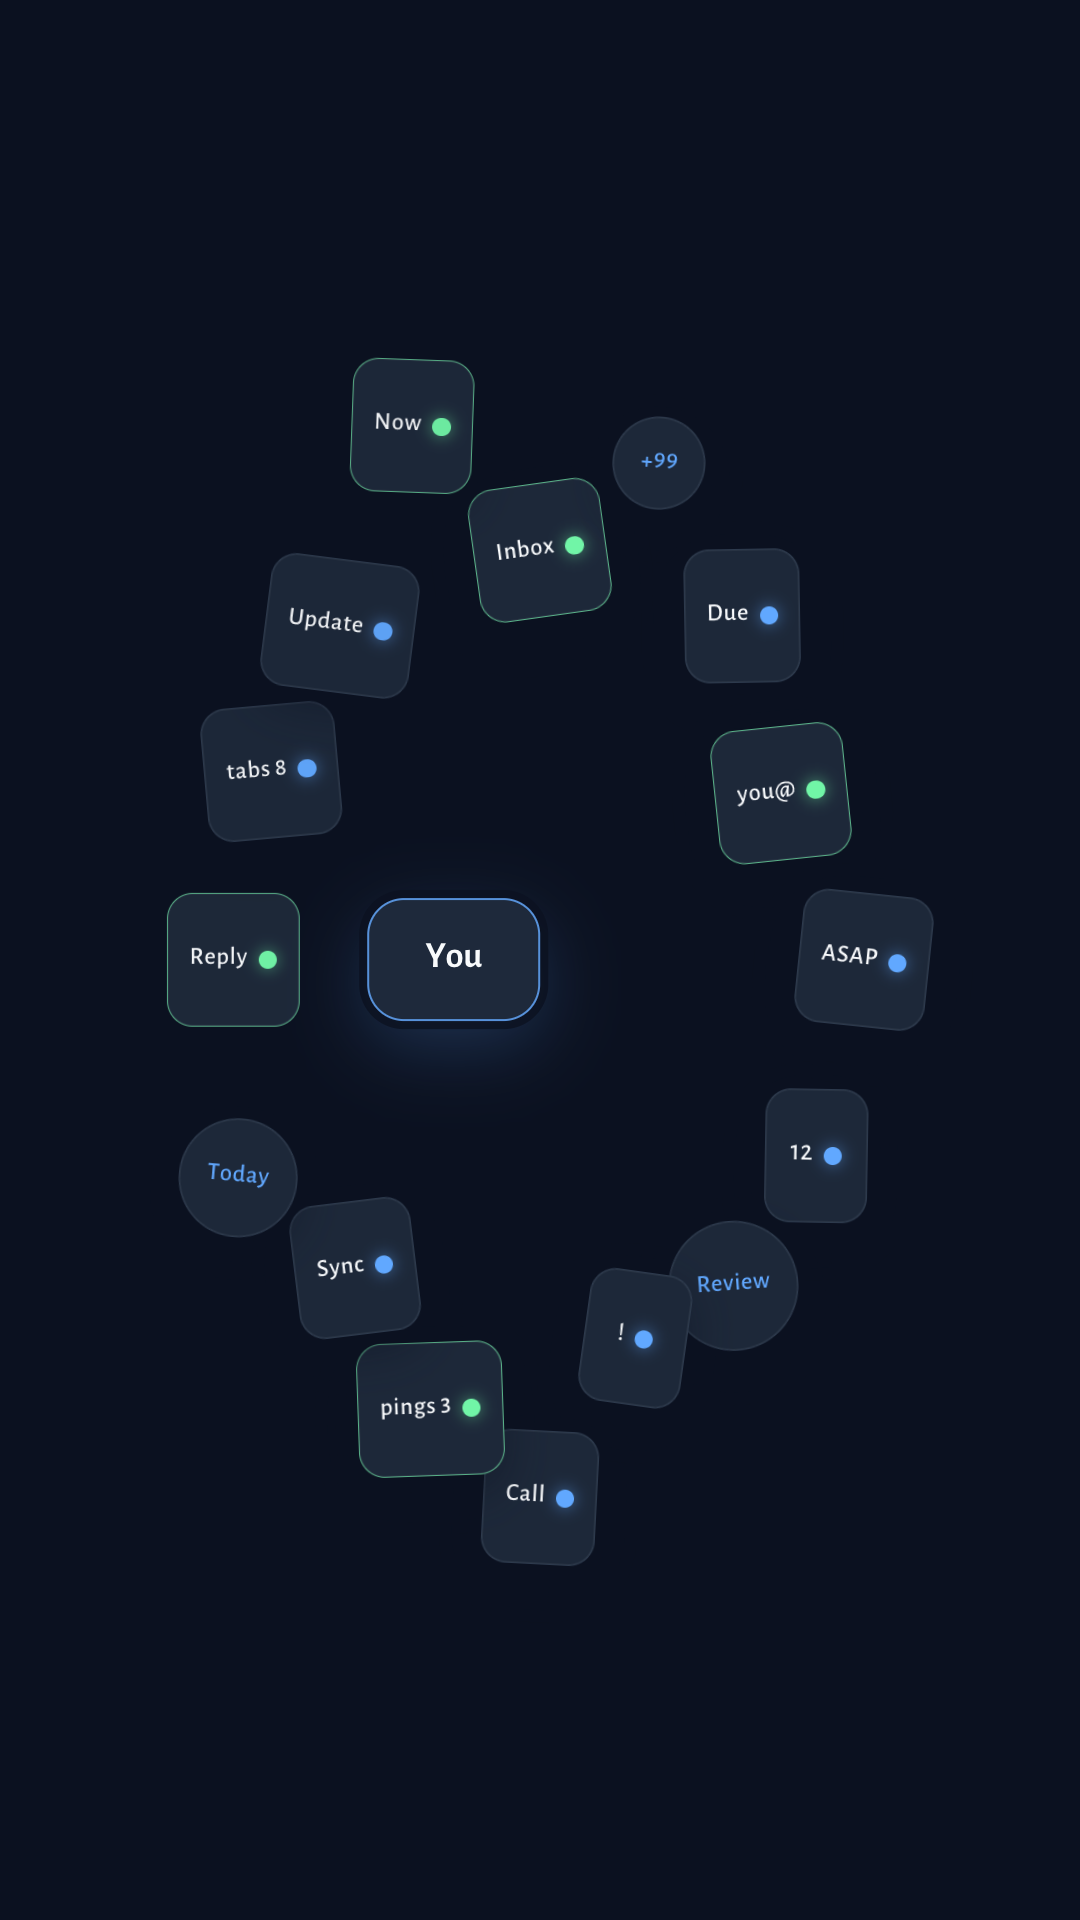
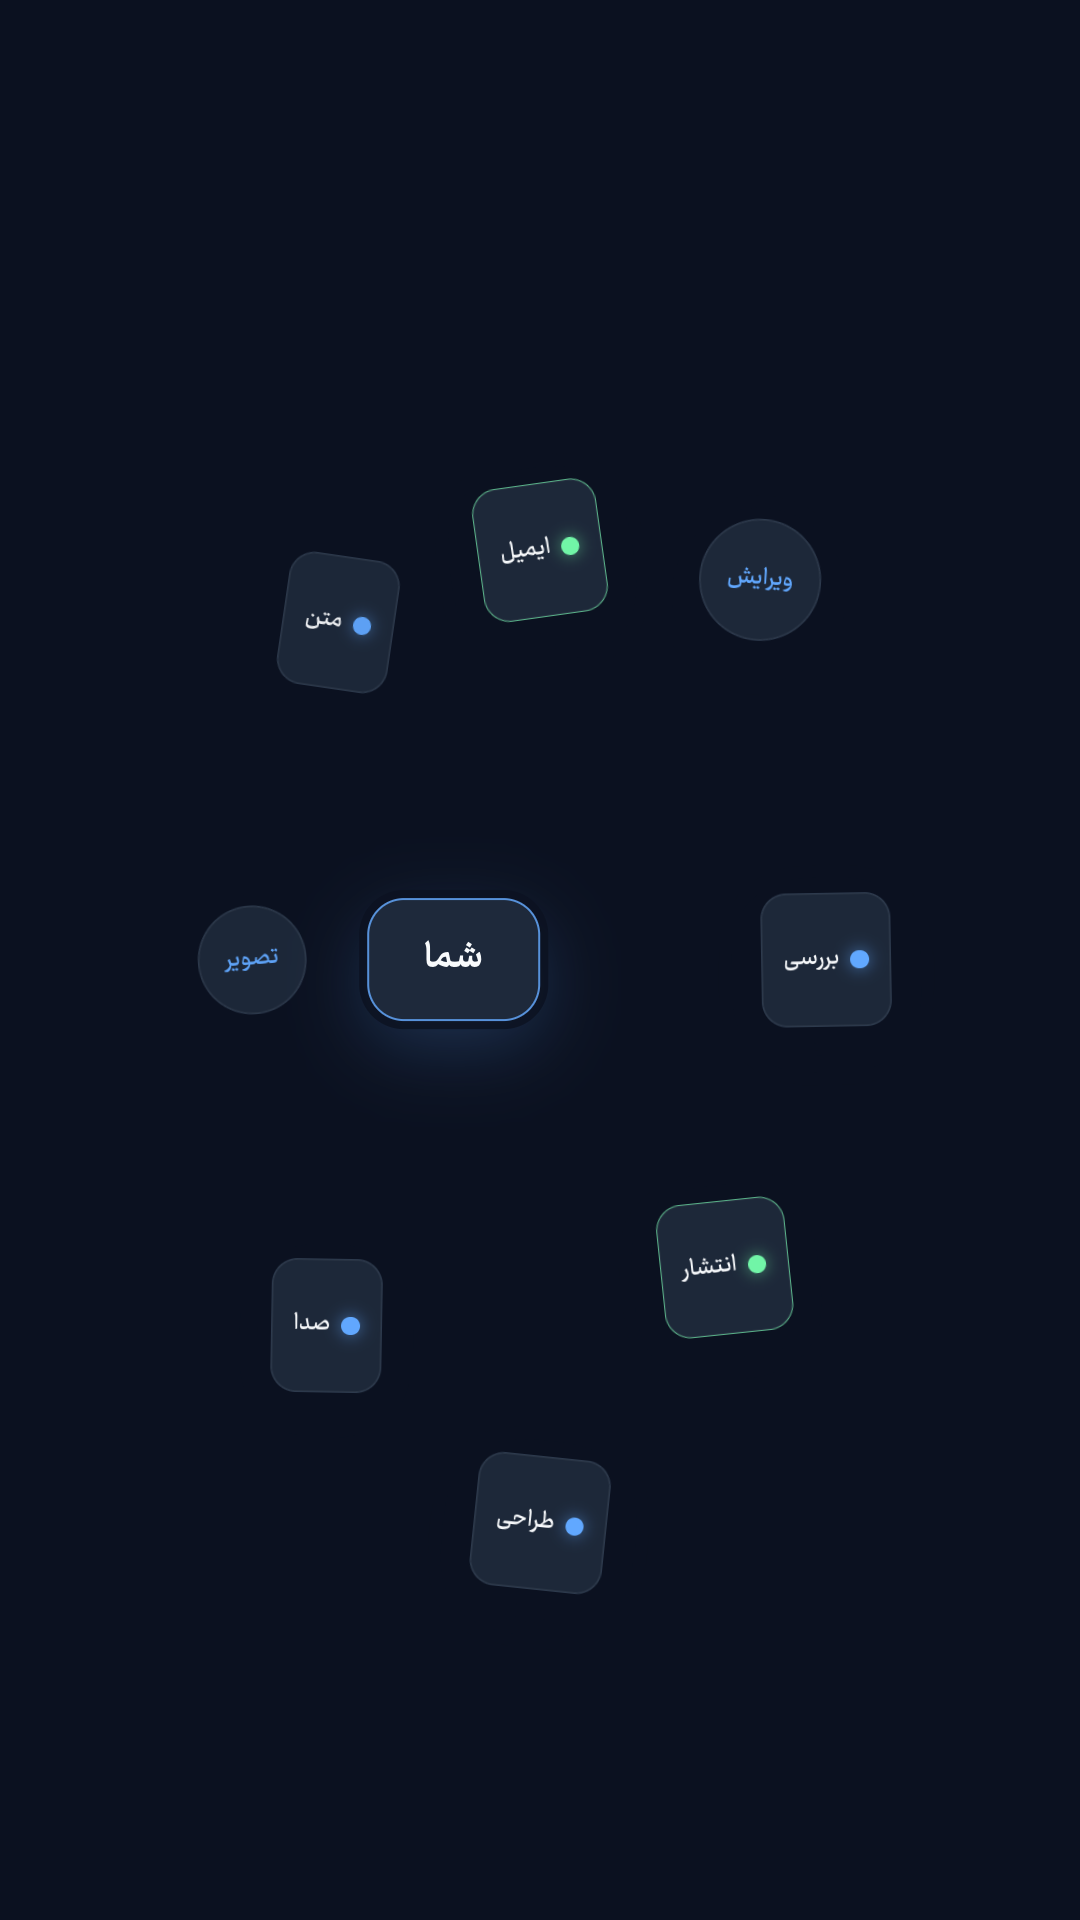
Validate native content before execution and prevent demo-copy leakage

diff --git a/web/public/creative-previews/gallery.html b/web/public/creative-previews/gallery.html
@@ -8,14 +8,14 @@ function draw(){gallery.replaceChildren();const query=document.querySelector('#s
 for(const item of shown){
 const card=document.createElement('article');
 if(item.poster&&/^\/creative-previews\/[a-z0-9-]+\.png$/.test(item.poster)){
-const image=document.createElement('img');image.src=item.poster;image.loading='lazy';image.alt='نمونهٔ اجرای '+item.name;card.append(image);}
+const image=document.createElement('img');image.src=item.poster;image.loading='lazy';image.alt='نمونهٔ اجرای '+item.name;const link=document.createElement('a');link.href=item.poster;link.target='_blank';link.rel='noopener';link.setAttribute('aria-label','نمایش تصویر کامل '+item.name);link.append(image);card.append(link);}
 const section=document.createElement('section'),title=document.createElement('h2');title.dir='ltr';title.textContent=item.name;section.append(title);
 const state=document.createElement('p');
 state.textContent=item.status==='browser-checked'?'بررسی مرورگر انجام شد · عمودی':item.status==='synthetic-frame-checked'?'اجرای افکت روی ورودی هندسی · رهگیری چهره و ویدیوی کامل آزمون نشده':item.status==='upstream-demo-checked'?'اجرای مستقیم نمونهٔ اصلی · اتصال محتوای کاربر و فارسی/عمودی هنوز تکمیل نشده':'نیازمند اصلاح؛ آمادهٔ انتخاب موتور نیست';
 section.append(state);
 if(item.use){const use=document.createElement('p');use.textContent=item.use;section.append(use);}
 const details=document.createElement('details'),summary=document.createElement('summary'),pre=document.createElement('pre');summary.textContent='ورودیها و اطلاعات فنی';
-pre.textContent=JSON.stringify({resource_id:item.id,status:item.status,fixture:item.fixture,tracking_verified:item.tracking_verified,parameters:item.parameters,source_sha256:item.source_sha256,findings:item.findings},null,2);
+pre.textContent=JSON.stringify({resource_id:item.id,status:item.status,fixture:item.fixture,tracking_verified:item.tracking_verified,production_template_ready:item.production_template_ready,source_revision:item.source_revision,backward_seek_verified:item.backward_seek_verified,parameters:item.parameters,source_sha256:item.source_sha256,findings:item.findings},null,2);
 details.append(summary,pre);section.append(details);card.append(section);gallery.append(card);
 }}
 document.querySelector('#search').addEventListener('input',draw);Promise.all(['index.json','claude-effects.json','shotcraft.json','lemo.json'].map(file=>fetch('./'+file,{cache:'no-store'}).then(r=>r.ok?r.json():{items:{}}).catch(()=>({items:{}})))).then(groups=>{items=groups.flatMap(data=>Object.values(data.items));draw()}).catch(()=>{status.textContent='گالری هنوز ساخته نشده یا قابل دسترسی نیست.'});

diff --git a/creative/native_motion.py b/creative/native_motion.py
@@ -46,7 +46,52 @@ def parameter_schema(name: str):
                 self.variables = json.loads(value)
     parser = Metadata()
     parser.feed((SOURCES / f"{name}.html").read_text())
-    return {v["id"]: v for v in parser.variables}
+    result = {v["id"]: v for v in parser.variables}
+    if name == "overwhelm-surround":
+        result["task_labels"] = {"id":"task_labels", "type":"string", "role":"content", "label":"Task labels",
+                                 "description":"Comma-separated task labels, exactly count entries. Explicit content replaces the original fixed English demo labels."}
+    return result
+
+
+def content_problems(spec, duration=None):
+    """Production-only semantic guards. Demo materialization may use defaults."""
+    if spec.resource_id in LEGACY_INPUTS:
+        return []
+    name = spec.resource_id.split(":")[1]
+    schema, p = parameter_schema(name), spec.parameters
+    missing = {k for k,v in schema.items() if v.get("role") == "content"} - p.keys()
+    if missing:
+        return ["Explicit component content required: " + ", ".join(sorted(missing))]
+    problems = []
+    def parts(key):
+        return [v.strip() for v in str(p.get(key, "")).split(",")]
+    paired_counts = {"beat-timeline":("labels","beatCount"), "multiplayer-cursors":("labels","cursorCount"),
+                     "overwhelm-surround":("task_labels","count")}
+    if name in paired_counts:
+        labels, count = paired_counts[name]
+        expected = p[count]
+        if float(expected) != int(expected) or len(parts(labels)) != expected or not all(parts(labels)):
+            problems.append(f"{labels} must contain exactly {count} nonempty labels; demo fallbacks are forbidden")
+    if name == "tracing-beam" and (len(parts("labels")) != 3 or not all(parts("labels"))):
+        problems.append("tracing-beam requires three explicit nonempty labels")
+    if name == "chart-story":
+        try:
+            values = [float(v) for v in parts("data")]
+            if not 2 <= len(values) <= 12 or not all(math.isfinite(v) and abs(v) <= 1_000_000 for v in values):
+                raise ValueError()
+            if len(parts("labels")) != len(values) or not all(parts("labels")):
+                problems.append("Chart labels must match all explicit data values")
+        except ValueError:
+            problems.append("Chart data requires 2–12 finite bounded comma-separated numbers")
+    if name == "per-word-rise" and p.get("split") == "char" and re.search(r"[\u0600-\u06ff]", str(p.get("text", ""))):
+        problems.append("Persian text requires word splitting to preserve joined glyphs")
+    if name == "cursor-text-select" and p["phrase"] not in p["text"]:
+        problems.append("Selection phrase must exist in the supplied text")
+    if name == "notes-typing" and duration is not None:
+        required = max(10, len(str(p["lines"])) * .2 / max(.5, float(p.get("speed", 1))) + 2)
+        if duration < required:
+            problems.append(f"notes-typing needs at least {required:g} seconds; do not truncate its text")
+    return problems
 
 
 class NativeMotion(BaseModel):
@@ -109,12 +154,14 @@ def catalog():
                        "description":entries.get(name, {}).get("description", name),
                        "best_for":profile.get("best_for", []), "avoid_when":profile.get("avoid_when", []),
                        "inputs":{"resource_id":key,"text":"short exact approved headline", "parameters":{
-                           k: {"type":v["type"], "description":v.get("description", "")[:100],
+                           k: {"type":v["type"], "description":(v.get("description") or v.get("label", ""))[:100],
+                               **({"min":v["min"]} if "min" in v else {}),
+                               **({"max":v["max"]} if "max" in v else {}),
                                **({"options":[o["value"] for o in v["options"]]} if "options" in v else {})}
                            for k,v in parameter_schema(name).items()},
                            "required_content":[k for k,v in parameter_schema(name).items() if v.get("role")=="content"]},
                        "minimum_seconds":10 if name=="notes-typing" else 2.5,
-                       "contract":"Supply all relevant content parameters explicitly; do not retain upstream demo claims, brand names or statistics. Parameters are data, never JS. Native source is not rewritten.",
+                       "contract":"Supply every required_content parameter explicitly, including empty optional copy. Counts must match complete nonempty label lists; charts require finite factual data and one label per datum; tracing-beam needs exactly three labels. Persian per-word-rise must use split=word. Do not retain upstream demo claims, brands or statistics. Data only, never JS; original source executes.",
                        "certification":"Portrait demo browser-checked, not certification of every copy, duration, RTL input or encoded output."})
     return result
 
@@ -142,6 +189,10 @@ def materialize(project: Path, spec: NativeMotion, instance: str, duration: floa
         if "text" in values:
             values["text"] = spec.text
     values.update(spec.parameters)
+    if name == "overwhelm-surround" and "task_labels" in spec.parameters:
+        text, replaced = re.subn(r'var labels = \[[\s\S]*?\];', 'var labels = String(vars.task_labels).split(",").map(function(v){return v.trim();});', text, count=1)
+        if replaced != 1:
+            raise ValueError("Upstream task label contract changed")
     # Script-safe JSON: user text is data, including </script> and Unicode.
     payload = json.dumps(values, ensure_ascii=True).replace("<", "\\u003c").replace(">", "\\u003e").replace("&", "\\u0026")
     text, count = re.subn(r"var vars\s*=\s*window\.__hyperframes[\s\S]*?:\s*\{\};",

diff --git a/creative/resources/providers.py b/creative/resources/providers.py
@@ -27,6 +27,12 @@ def hyperframes_resources():
     except (OSError, ValueError):
         gallery = {}
     catalog, profiles = load_catalog(), load_profiles()
+    def native_parameters(name):
+        return tuple(Parameter(name=k, value_type="number" if v["type"] == "number" else "boolean" if v["type"] == "boolean" else "string",
+                               default=v.get("default"), editable=True, description=v.get("description") or v.get("label", ""),
+                               required=v.get("role")=="content", minimum=v.get("min"), maximum=v.get("max"),
+                               options=tuple(o["value"] for o in v.get("options", [])))
+                     for k,v in parameter_schema(name).items())
     # The index owns membership/version. Profiles only enrich matching items;
     # the two snapshots currently have different item counts.
     for item in catalog.get("items", []):
@@ -51,7 +57,7 @@ def hyperframes_resources():
             availability="existing-pipeline" if wired else "catalog-only",
             contexts=(("talking_2",) if talking else ()) + (("motion-graphic",) if motion else ()), legacy_id=key,
             capabilities=Capabilities(supports_preview=True if video or poster else None),
-            parameters=tuple(Parameter(name=str(name), value_type="string")
+            parameters=native_parameters(key) if motion else tuple(Parameter(name=str(name), value_type="string")
                              for name in profile.get("variables", [])),
             recommended_for=tuple(profile.get("best_for", [])),
             avoid_when=tuple(profile.get("avoid_when", [])),
@@ -77,7 +83,7 @@ def hyperframes_resources():
                        integration_status="native" if wired else "adapter-required",
                        availability="existing-pipeline" if wired else "catalog-only",
                        contexts=("motion-graphic",) if wired else (), legacy_id=key,
-                       parameters=tuple(Parameter(name=k, value_type="number" if v["type"] == "number" else "boolean" if v["type"] == "boolean" else "string", default=v.get("default")) for k,v in parameter_schema(key).items()),
+                       parameters=native_parameters(key),
                        preview_poster=poster if local.get("poster") == poster else None,
                        limitations=("Portrait demonstration browser-checked only; not certification of all inputs, RTL, timings or encoded output." if wired else "Adapter check failed; not eligible for production selection.",))
 
@@ -138,7 +144,8 @@ def shotcraft_resources():
             source_url="https://github.com/Vincentwei1021/video-shotcraft", source_version=REVISION,
             engine="hyperframes", integration_status="port-required", availability="catalog-only",
             contexts=("motion-graphic",), license=License(type="Apache-2.0", verified=True, attribution_required=True),
-            limitations=("Pinned recipe and TSX guide scene authoring. TSX is not executed; no certified native port or automatic Remotion fallback.",),
+            preview_poster="/creative-previews/shotcraft-" + ("chart-axis-rescale" if item["id"] == "shotcraft:chart-live-moves" else item["id"].split(":",1)[1]) + ".png",
+            limitations=("Production uses the pinned recipe as authoring guidance, not native TSX. Gallery executes original TSX demos only; user-content binding is incomplete. No automatic Remotion fallback.",),
         )
 
 

diff --git a/creative/motion_graphic.py b/creative/motion_graphic.py
@@ -562,9 +562,10 @@ def validate_plan(plan: MotionPlan, *, max_scenes: int = 6) -> list[str]:
     cursor = 0.0
     for index, scene in enumerate(plan.scenes, 1):
         if scene.native_component:
-            from .native_motion import SUPPORTED
+            from .native_motion import SUPPORTED, content_problems
             if scene.native_component.resource_id not in SUPPORTED:
                 problems.append(f"scene {index}: component adapter has not passed its browser gate")
+            problems.extend(f"scene {index}: {problem}" for problem in content_problems(scene.native_component, scene.end-scene.start))
             if scene.native_component.resource_id == "hyperframes:notes-typing":
                 p = scene.native_component.parameters
                 required = max(10, len(str(p.get("lines", ""))) * .2 / max(.5, float(p.get("speed", 1))) + 2)
@@ -785,14 +786,12 @@ def author_scene(plan: MotionPlan, n: int, brief: str, *, context: str = "", use
     conversation with problems an earlier check found in this scene. The caller falls back to a plain scene when this raises."""
     spec = plan.scenes[n - 1].native_component
     if spec:
-        from .native_motion import SUPPORTED, LEGACY_INPUTS, parameter_schema
+        from .native_motion import SUPPORTED, content_problems
         if spec.resource_id not in SUPPORTED:
             raise CreativeUnavailable("کامپوننت هنوز از آزمون اجرایی عبور نکرده است؛ طراحی ساده جایگزین نمیشود.")
-        if spec.resource_id not in LEGACY_INPUTS:
-            required = {k for k, v in parameter_schema(spec.resource_id.split(":")[1]).items() if v.get("role") == "content"}
-            missing = required - spec.parameters.keys()
-            if missing:
-                raise CreativeUnavailable("پارامترهای محتوایی کامپوننت باید صریح باشند تا نمونهٔ انگلیسی وارد ویدیو نشود: " + ", ".join(sorted(missing)))
+        problems = content_problems(spec, plan.scenes[n-1].end-plan.scenes[n-1].start)
+        if problems:
+            raise CreativeUnavailable("پارامترهای محتوایی کامپوننت نیاز به اصلاح دارند: " + "; ".join(problems))
         return SceneDraft(html=f'<div id="s{n}-native-slot"></div>', build_js='tl.to({}, {duration:.001}, 0);', timebase="local", native_component=spec)
     request = scene_request(plan, n, brief, context, style)
     guide = SCENE_GUIDE.replace("sN", f"s{n}").replace("using ABSOLUTE times (T + offset)", "using LOCAL times (T=0, offset)")

diff --git a/tests/test_native_motion.py b/tests/test_native_motion.py
@@ -115,6 +115,30 @@ def test_generic_component_requires_explicit_content_without_calling_model(monke
     assert mg.author_scene(plan, 1, "compare").native_component.parameters["line_b"] == "روش تازه"
 
 
+@pytest.mark.parametrize("name,parameters", [
+    ("beat-timeline", {"beatCount":4,"labels":"یک,دو"}),
+    ("chart-story", {"type":"bars","data":"12,NaN","labels":"الف,ب","emphasize":1,"unit":""}),
+    ("chart-story", {"type":"bars","data":"12,24","labels":"الف","emphasize":1,"unit":""}),
+    ("tracing-beam", {"labels":"یک,دو"}),
+    ("per-word-rise", {"text":"میتوانیم", "split":"char"}),
+    ("cursor-text-select", {"title":"نمونه", "text":"متن درست", "phrase":"غایب"}),
+])
+def test_production_content_cannot_use_hidden_defaults_or_broken_persian(name, parameters):
+    from creative.native_motion import content_problems
+    assert content_problems(NativeMotion(resource_id="hyperframes:"+name,text="نمونه",parameters=parameters))
+
+
+def test_original_task_animation_uses_explicit_labels(tmp_path):
+    from creative.native_motion import content_problems
+    spec = NativeMotion(resource_id="hyperframes:overwhelm-surround",text="کارها",
+                        parameters={"count":8,"centerLabel":"شما","task_labels":"ایمیل,ویرایش,بررسی,انتشار,طراحی,صدا,تصویر,متن"})
+    assert not content_problems(spec, 4)
+    materialize(tmp_path,spec,"s1-native",4)
+    source = (tmp_path / "compositions/s1-native.html").read_text()
+    assert "var labels = String(vars.task_labels)" in source
+    assert '"Inbox",' not in source
+
+
 @pytest.mark.parametrize("name", __import__("creative.native_motion", fromlist=["source_names"]).source_names())
 def test_every_vendored_component_materializes_with_integrity(tmp_path, name):
     import hashlib

diff --git a/scripts/build_component_gallery.py b/scripts/build_component_gallery.py
@@ -35,6 +35,9 @@ def run(args):
             raise ValueError("Use a fresh work directory; QA sources are not overwritten")
         directory.mkdir(parents=True)
         spec = NativeMotion(resource_id="hyperframes:" + name, text="یک شروع متفاوت", button_label="شروع", suffix=" نفر", end_value=320)
+        if name == "overwhelm-surround":
+            spec = NativeMotion(resource_id="hyperframes:"+name,text="کارها",parameters={
+                "count":8,"centerLabel":"شما","task_labels":"ایمیل,ویرایش,بررسی,انتشار,طراحی,صدا,تصویر,متن"})
         page = MotionPage(title="Component demonstration", duration=4,
                          scenes_html='<section class="hm-scene" id="s1"><div id="s1-native-host" class="clip" data-composition-id="s1-native" data-composition-src="compositions/s1-native.html" data-start="0" data-duration="4" data-track-index="2" style="position:absolute;inset:0"></div></section>',
                          build_js='tl.to({}, {duration:4}, 0);')

diff --git a/creative/resources/models.py b/creative/resources/models.py
@@ -29,6 +29,11 @@ class Parameter(ManifestModel):
     default: Any = None
     # A known default is not a validated editing contract.
     editable: bool = False
+    description: str = ""
+    required: bool = False
+    minimum: float | None = None
+    maximum: float | None = None
+    options: tuple[str, ...] = ()
 
 
 class Resource(ManifestModel):

diff --git a/docs/NATIVE_COMPONENT_EXECUTION.md b/docs/NATIVE_COMPONENT_EXECUTION.md
@@ -72,8 +72,14 @@ Update, 2026-10-30:
   clearly labelled public demonstration gallery, never certified as user content.
 - Swiss Lemo demo uses original Canvas code and local licensed fonts. Seeking
   12 → 27 → 32 → 12 seconds produced identical pixels for both 12-second captures.
-- 110 focused automated tests passed before additional gallery regression tests.
-  See test output for the latest count. Two existing deprecation warnings remain.
+- 123 focused automated tests passed, including frozen gallery and dependency
+  integrity, required content, chart label consistency and Persian splitting.
+  Two existing deprecation warnings remain.
+- Production validates complete content during planning and before scene
+  execution. Incomplete row lists cannot fall back to English "Beat"/"Guest"
+  labels. The task-surround adapter binds explicit task labels instead of the
+  upstream demo's fixed English tasks. Its corrected Persian example passed the
+  same browser checks and its retained image was replaced.
 - No production deployment, paid provider request or full MP4 certification in
   this update. The local static gallery is not proof that the running API reloaded.
 
